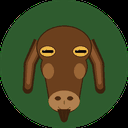
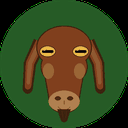
Fix the face on 64-colour MIP watches; label the data fields; full date
The older MIP watches (fenix 5/6, vivoactive 3/4, fr245/745/945, marq) declare
a fixed palette where every channel snaps to 00/55/AA/FF, and the colours had
been chosen without it in mind. Chocolate coats quantised to olive - and so did
the halter's leather, so on a Nubian the strap disappeared into the face. The
daylight sky came out indigo, meadow and dusk came out grey, slate came out
teal, and eight of sixteen breeds lost most of their shading.

Colours are now nudged the minimum distance needed to land on distinct palette
entries, biased to preserve the hue's channel ordering so a brown picks an
orange-brown rather than the numerically nearer grey. Imperceptible on AMOLED.

tools/check_palette.py asserts all of that, plus that the PIL mirror still
agrees with Breeds.mc colour for colour.

Also:
- data fields carry a dimmed caption (STEPS, HR, CAL, BATT, ..., KM/MILES)
- the date reads weekday, month and day, with a one-pixel halo so it stays
  legible where it crosses from a blaze onto the coat, and a narrow-panel
  fallback to weekday and day
- release.yml pinned to container tag 9.1.0; the 9.2.0 it referenced does not
  exist, so a tagged release would have failed on an unknown image

diff --git a/tools/goatart.py b/tools/goatart.py
@@ -30,18 +30,18 @@ HINGE = 0.34
 LEATHER = 0x46301E
 CREAM = 0xF3E7CC
 STITCH = 0xC9A96A
-MEADOW = 0x2E5B2E
-SLATE = 0x2A2F36
-DAYLIGHT = 0x2F6382
+MEADOW = 0x265B26
+SLATE = 0x2E3338
+DAYLIGHT = 0x1A5E9E
 
 BREEDS = [
-    dict(name="Nubian", coat=0x6B3F1D, coatDark=0x3C220E, coatLight=0x9A6636,
+    dict(name="Nubian", coat=0x803F1D, coatDark=0x3C220E, coatLight=0x9A6636,
          muzzle=0xB08050, muzzleDark=0x4A2C13, earInner=0x8F5A32, beardColor=0x3C220E,
          eye=0xE8B33C, horn=0xC9B58A, hornDark=0x8A7A5C,
          ear=EAR_DROOP, horns=HORN_NONE, beard=BEARD_SHORT, marking=MARK_NONE,
          markColor=0xF2EEE3, curly=False, faceInk=0xF5EFE0, faceDark=0x241F1B, wattles=False, muzzleLen=1.0, eyeScale=1.0),
-    dict(name="Alpine", coat=0x9A7245, coatDark=0x4E351A, coatLight=0xC5A175,
-         muzzle=0x2E2A26, muzzleDark=0x131110, earInner=0x6A4C2E, beardColor=0x1C1A18,
+    dict(name="Alpine", coat=0x9A722A, coatDark=0x4E2A1A, coatLight=0xC5A175,
+         muzzle=0x2A2A26, muzzleDark=0x131110, earInner=0x6A4C2E, beardColor=0x1C1A18,
          eye=0xE8B33C, horn=0xC9B58A, hornDark=0x8A7A5C,
          ear=EAR_UPRIGHT, horns=HORN_SWEPT, beard=BEARD_SHORT, marking=MARK_DARK_FACE,
          markColor=0xF2EEE3, curly=False, faceInk=0xF5EFE0, faceDark=0x241F1B, wattles=False, muzzleLen=1.0, eyeScale=1.0),
@@ -50,43 +50,43 @@ BREEDS = [
          eye=0xE8B33C, horn=0xC9B58A, hornDark=0x8A7A5C,
          ear=EAR_DROOP, horns=HORN_SWEPT, beard=BEARD_NONE, marking=MARK_BLAZE,
          markColor=0xF2EEE3, curly=False, faceInk=0x4A2A16, faceDark=0x241F1B, wattles=False, muzzleLen=1.0, eyeScale=1.0),
-    dict(name="Angora", coat=0xEFE6D0, coatDark=0xC2B497, coatLight=0xFFFAEE,
+    dict(name="Angora", coat=0xEFE6D0, coatDark=0xD5B47F, coatLight=0xFFFAEE,
          muzzle=0xE0B9A6, muzzleDark=0x8A6252, earInner=0xD8BFA8, beardColor=0xD8CBAF,
-         eye=0x8FA3B8, horn=0xD3C09A, hornDark=0x9A886A,
+         eye=0x7FA3D5, horn=0xD3C09A, hornDark=0x9A886A,
          ear=EAR_UPRIGHT, horns=HORN_SPIRAL, beard=BEARD_LONG, marking=MARK_NONE,
          markColor=0xF2EEE3, curly=True, faceInk=0x5A4A33, faceDark=0x241F1B, wattles=False, muzzleLen=1.0, eyeScale=1.0),
-    dict(name="Pygmy", coat=0x7B6D5D, coatDark=0x453C33, coatLight=0xA8967F,
+    dict(name="Pygmy", coat=0x806D5D, coatDark=0x453C33, coatLight=0xA8967F,
          muzzle=0x8E8070, muzzleDark=0x2A241E, earInner=0x5E5346, beardColor=0x35302A,
          eye=0xE8B33C, horn=0xC9B58A, hornDark=0x8A7A5C,
          ear=EAR_SIDE, horns=HORN_SPIKE, beard=BEARD_SHORT, marking=MARK_MASK,
          markColor=0x2A241E, curly=False, faceInk=0xF5EFE0, faceDark=0x241F1B, wattles=False, muzzleLen=0.92, eyeScale=1.12),
-    dict(name="LaMancha", coat=0x463227, coatDark=0x241813, coatLight=0x6E5040,
-         muzzle=0x7A5C48, muzzleDark=0x2A1C14, earInner=0x5A4034, beardColor=0x241813,
+    dict(name="LaMancha", coat=0x462A27, coatDark=0x241813, coatLight=0x6E5040,
+         muzzle=0x805C2A, muzzleDark=0x2A1C14, earInner=0x5A4034, beardColor=0x241813,
          eye=0xD9A441, horn=0xC9B58A, hornDark=0x8A7A5C,
          ear=EAR_ELF, horns=HORN_NONE, beard=BEARD_SHORT, marking=MARK_NONE,
          markColor=0xF2EEE3, curly=False, faceInk=0xF5EFE0, faceDark=0x241F1B, wattles=False, muzzleLen=1.0, eyeScale=1.0),
-    dict(name="Toggenburg", coat=0x8A6B45, coatDark=0x543D24, coatLight=0xB59468,
-         muzzle=0xF0E8D8, muzzleDark=0x6A5238, earInner=0xB08C60, beardColor=0x543D24,
+    dict(name="Toggenburg", coat=0x8A6B2A, coatDark=0x542A24, coatLight=0xB59468,
+         muzzle=0xF0E8D4, muzzleDark=0x6A5238, earInner=0xB08C60, beardColor=0x543D24,
          eye=0xE8B33C, horn=0xC9B58A, hornDark=0x8A7A5C,
          ear=EAR_UPRIGHT, horns=HORN_NONE, beard=BEARD_SHORT, marking=MARK_STRIPES,
          markColor=0xF2EEE3, curly=False, faceInk=0xF5EFE0, faceDark=0x241F1B, wattles=True, muzzleLen=1.0, eyeScale=1.0),
-    dict(name="Saanen", coat=0xF2EFE2, coatDark=0xC6C0AE, coatLight=0xFFFFF6,
+    dict(name="Saanen", coat=0xF2EFD4, coatDark=0xC6C0AE, coatLight=0xFFFFF6,
          muzzle=0xE9B2A4, muzzleDark=0x9A6A5E, earInner=0xE0C9BC, beardColor=0xDCD6C4,
-         eye=0x86B4D6, horn=0xC9B58A, hornDark=0x8A7A5C,
+         eye=0x7FB4D6, horn=0xC9B58A, hornDark=0x8A7A5C,
          ear=EAR_UPRIGHT, horns=HORN_NONE, beard=BEARD_SHORT, marking=MARK_NONE,
          markColor=0xF2EEE3, curly=False, faceInk=0x55503F, faceDark=0x241F1B, wattles=False, muzzleLen=1.0, eyeScale=1.0),
-    dict(name="Wild Ibex", coat=0xB08B57, coatDark=0x6A4F2E, coatLight=0xD8B884,
+    dict(name="Wild Ibex", coat=0xB08B57, coatDark=0x804F2A, coatLight=0xD8B884,
          muzzle=0xD8C9AC, muzzleDark=0x5A4530, earInner=0x8A6A42, beardColor=0x2E2118,
          eye=0xE8B33C, horn=0x8F7C58, hornDark=0x5A4C34,
          ear=EAR_SIDE, horns=HORN_IBEX, beard=BEARD_LONG, marking=MARK_MASK,
          markColor=0x4A3520, curly=False, faceInk=0xF5EFE0, faceDark=0x241F1B, wattles=False, muzzleLen=1.0, eyeScale=1.0),
-    dict(name="Black Bengal", coat=0x272727, coatDark=0x0D0D0D, coatLight=0x4E4E4E,
+    dict(name="Black Bengal", coat=0x272727, coatDark=0x0D0D2B, coatLight=0x4E4E4E,
          muzzle=0x3C3C3C, muzzleDark=0x0A0A0A, earInner=0x333333, beardColor=0x141414,
          eye=0xE8A93C, horn=0x8C8272, hornDark=0x5A5246,
          ear=EAR_UPRIGHT, horns=HORN_SPIKE, beard=BEARD_SHORT, marking=MARK_NONE,
          markColor=0xF2EEE3, curly=False, faceInk=0xF5EFE0, faceDark=0x241F1B, wattles=False, muzzleLen=1.0, eyeScale=1.0),
-    dict(name="Nigerian Dwarf", coat=0x4A3226, coatDark=0x241811, coatLight=0x7A5642,
-         muzzle=0xF0E6DA, muzzleDark=0x5A4034, earInner=0x8A6A56, beardColor=0x241811,
+    dict(name="Nigerian Dwarf", coat=0x803F1D, coatDark=0x2B1811, coatLight=0x7A5642,
+         muzzle=0xF0E6D4, muzzleDark=0x5A4034, earInner=0x8A6A56, beardColor=0x241811,
          eye=0x7FB6DC, horn=0xC0AE8E, hornDark=0x877A62,
          ear=EAR_UPRIGHT, horns=HORN_SPIKE, beard=BEARD_SHORT, marking=MARK_BLAZE,
          markColor=0xF4EEE6, curly=False, faceInk=0x40281C, faceDark=0x241F1B,
@@ -97,25 +97,25 @@ BREEDS = [
          ear=EAR_UPRIGHT, horns=HORN_SWEPT, beard=BEARD_SHORT, marking=MARK_DARK_FACE,
          markColor=0xC97B3E, curly=False, faceInk=0xF5EFE0, faceDark=0x1E1A18,
          wattles=False, muzzleLen=1.0, eyeScale=1.0),
-    dict(name="Valais Blacknose", coat=0xF4F0E6, coatDark=0xC9C3B4, coatLight=0xFFFFFA,
+    dict(name="Valais Blacknose", coat=0xF4F0E6, coatDark=0xD5D5B4, coatLight=0xFFFFFA,
          muzzle=0x1E1C1B, muzzleDark=0x080807, earInner=0x2A2624, beardColor=0xDED8C8,
          eye=0xE8B33C, horn=0xC6B492, hornDark=0x8E7F63,
          ear=EAR_UPRIGHT, horns=HORN_SPIRAL, beard=BEARD_SHORT, marking=MARK_DARK_FACE,
          markColor=0x1C1A19, curly=True, faceInk=0x3A3532, faceDark=0x1C1A19,
          wattles=False, muzzleLen=1.0, eyeScale=1.0),
     dict(name="Markhor", coat=0x9C8E76, coatDark=0x5E543F, coatLight=0xC3B79C,
-         muzzle=0xD2C8B2, muzzleDark=0x4A4234, earInner=0x7A6E58, beardColor=0x3A3226,
+         muzzle=0xD5D5B2, muzzleDark=0x4A4234, earInner=0x7A6E58, beardColor=0x3A3226,
          eye=0xE8B33C, horn=0x8A7F66, hornDark=0x574E3C,
          ear=EAR_SIDE, horns=HORN_SPIRAL, beard=BEARD_LONG, marking=MARK_STRIPES,
          markColor=0xE4DCC8, curly=False, faceInk=0xF5EFE0, faceDark=0x241F1B,
          wattles=False, muzzleLen=1.0, eyeScale=1.0),
-    dict(name="Golden Guernsey", coat=0xD69B45, coatDark=0x94631F, coatLight=0xF0C075,
+    dict(name="Golden Guernsey", coat=0xD69B45, coatDark=0x94632B, coatLight=0xF0C075,
          muzzle=0xE9C89A, muzzleDark=0x7A5424, earInner=0xC08A44, beardColor=0x94631F,
-         eye=0xC98A2E, horn=0xC9B58A, hornDark=0x8A7A5C,
+         eye=0xC97F2A, horn=0xC9B58A, hornDark=0x8A7A5C,
          ear=EAR_SIDE, horns=HORN_NONE, beard=BEARD_SHORT, marking=MARK_NONE,
          markColor=0xF2EEE3, curly=False, faceInk=0x4A3212, faceDark=0x241F1B,
          wattles=True, muzzleLen=1.0, eyeScale=1.0),
-    dict(name="Kiko", coat=0xE6DCC4, coatDark=0xB0A587, coatLight=0xF7F1E2,
+    dict(name="Kiko", coat=0xE6DCC4, coatDark=0xB0A57F, coatLight=0xF7F1E2,
          muzzle=0xD9BFA6, muzzleDark=0x7A6450, earInner=0xC9B294, beardColor=0xBFB396,
          eye=0xD8A441, horn=0xC9B58A, hornDark=0x8A7A5C,
          ear=EAR_SIDE, horns=HORN_IBEX, beard=BEARD_LONG, marking=MARK_NONE,
@@ -124,13 +124,32 @@ BREEDS = [
 ]
 
 
+# Set true to simulate the fixed 64-colour palette of the older MIP watches
+# (fenix 5/6, vivoactive 3/4, fr245/745/945, marq, ...): every channel snaps to
+# 0x00 / 0x55 / 0xAA / 0xFF. The device quantises each *fill colour*, not each
+# pixel, which is why this hooks the colour helpers rather than the output image.
+PALETTE64 = False
+_LEVELS = (0x00, 0x55, 0xAA, 0xFF)
+
+
+def _snap(v):
+    return min(_LEVELS, key=lambda L: abs(L - v))
+
+
+def quantize(rgb_tuple):
+    if not PALETTE64:
+        return rgb_tuple
+    return tuple(_snap(v) for v in rgb_tuple)
+
+
 def rgb(c):
-    return ((c >> 16) & 0xFF, (c >> 8) & 0xFF, c & 0xFF)
+    return quantize(((c >> 16) & 0xFF, (c >> 8) & 0xFF, c & 0xFF))
 
 
 def tint(c, factor):
-    r, g, b = rgb(c)
-    return (min(255, int(r * factor)), min(255, int(g * factor)), min(255, int(b * factor)))
+    r, g, b = (((c >> 16) & 0xFF), ((c >> 8) & 0xFF), (c & 0xFF))
+    return quantize((min(255, int(r * factor)), min(255, int(g * factor)),
+                     min(255, int(b * factor))))
 
 
 def fizz(n):

diff --git a/tools/check_palette.py b/tools/check_palette.py
@@ -1,0 +1,110 @@
+#!/usr/bin/env python
+"""
+Check the breed colours against the 64-colour MIP palette, and check that the
+PIL mirror still agrees with the Monkey C source.
+
+The older MIP watches (fenix 5/6, vivoactive 3/4, fr245/745/945, marq, ...)
+declare a fixed palette: every channel snaps to 0x00/0x55/0xAA/0xFF. Two colours
+landing on the same entry erase whatever shape they separated, so this asserts
+that the colours carrying the goat's structure - coat, muzzle, eye, and the rim
+where it can afford to - stay distinct after quantising, and that no coat
+collides with the halter's leather.
+
+Run:  python tools/check_palette.py
+"""
+import io
+import os
+import re
+import sys
+
+ROOT = os.path.dirname(os.path.dirname(os.path.abspath(__file__)))
+MC = os.path.join(ROOT, "source", "Breeds.mc")
+
+LEVELS = (0x00, 0x55, 0xAA, 0xFF)
+KEY = ["coat", "muzzle", "eye"]          # must always be mutually distinct
+RIM = "coatDark"                          # nice to have, may merge on dark goats
+LEATHER = 0x46301E
+
+COLOR_KEYS = ["coat", "coatDark", "coatLight", "muzzle", "muzzleDark",
+              "earInner", "beardColor", "eye", "horn", "hornDark", "faceDark",
+              "markColor", "faceInk"]
+
+
+def snap(c):
+    def n(v):
+        return min(LEVELS, key=lambda L: abs(L - v))
+    return (n((c >> 16) & 0xFF) << 16) | (n((c >> 8) & 0xFF) << 8) | n(c & 0xFF)
+
+
+def parse_mc():
+    s = io.open(MC, encoding="utf-8").read()
+    defaults = {}
+    for k in COLOR_KEYS:
+        m = re.search(r"var %s as Number = 0x([0-9A-Fa-f]{6});" % k, s)
+        if m:
+            defaults[k] = int(m.group(1), 16)
+    body = s[s.index("function get(index"):]
+    starts = [m.end() for m in re.finditer(
+        r"\n        (?:if \(i == \d+\) \{|\} else if \(i == \d+\) \{|\} else \{)", body)]
+    starts.append(body.index("        return b;"))
+    out = []
+    for i in range(len(starts) - 1):
+        seg = body[starts[i]:starts[i + 1]]
+        cols = dict(defaults)
+        for k in COLOR_KEYS:
+            m = re.search(r"b\.%s = 0x([0-9A-Fa-f]{6})" % k, seg)
+            if m:
+                cols[k] = int(m.group(1), 16)
+        name = re.search(r"// (.+?) -", seg)
+        cols["name"] = name.group(1).strip() if name else "breed %d" % i
+        out.append(cols)
+    return out
+
+
+def main():
+    sys.path.insert(0, os.path.join(ROOT, "tools"))
+    from goatart import BREEDS as MIRROR
+
+    mc = parse_mc()
+    problems = []
+
+    if len(mc) != len(MIRROR):
+        problems.append("breed count: Breeds.mc has %d, mirror has %d" % (len(mc), len(MIRROR)))
+
+    # 1. the mirror must agree with the source
+    for i in range(min(len(mc), len(MIRROR))):
+        for k in COLOR_KEYS:
+            if k in MIRROR[i] and k in mc[i] and MIRROR[i][k] != mc[i][k]:
+                problems.append("%-17s %-11s source 0x%06X != mirror 0x%06X"
+                                % (mc[i]["name"], k, mc[i][k], MIRROR[i][k]))
+
+    # 2. the palette must keep the structure
+    lea = snap(LEATHER)
+    print("%-18s %-9s %-9s %-9s %-9s" % ("breed", "coat", "muzzle", "eye", "rim"))
+    for b in mc:
+        q = {k: snap(b[k]) for k in KEY + [RIM]}
+        row = "  %-16s " % b["name"]
+        row += " ".join("%06X " % q[k] for k in KEY + [RIM])
+        notes = []
+        if len({q[k] for k in KEY}) < len(KEY):
+            notes.append("KEY COLLISION")
+            problems.append("%s: coat/muzzle/eye collide after quantise" % b["name"])
+        if q["coat"] == lea:
+            notes.append("COAT == STRAP")
+            problems.append("%s: coat quantises to the halter's leather" % b["name"])
+        if q[RIM] == q["coat"]:
+            notes.append("(rim merges - ok on a dark goat)")
+        print(row + "  " + " ".join(notes))
+
+    print()
+    if problems:
+        print("%d problem(s):" % len(problems))
+        for p in problems:
+            print("  - %s" % p)
+        return 1
+    print("OK: mirror matches source, and every breed survives the 64-colour palette.")
+    return 0
+
+
+if __name__ == "__main__":
+    sys.exit(main())

diff --git a/README.md b/README.md
@@ -93,6 +93,24 @@ taking it modulo a small number walks a short repeating cycle that can miss
 residues entirely; the first version of this face never blinked at all because
 of it.
 
+### Colour on MIP watches
+
+Half the supported devices are memory-in-pixel, and the older ones declare a
+fixed **64-colour palette**: every channel snaps to `00`/`55`/`AA`/`FF`. There
+is no true chocolate in that palette, so a brown goat will always come out
+orange-brown or maroon — but what matters is that colours which carry *shape*
+stay distinct after quantising. A coat and the halter's leather landing on the
+same entry makes the strap vanish into the face, which is exactly what the first
+version did.
+
+![on a 64-colour MIP panel](assets/preview_mip.png)
+
+`tools/check_palette.py` asserts this and fails loudly if a change breaks it:
+
+```
+python tools/check_palette.py
+```
+
 ### Tools
 
 `tools/goatart.py` is a line-for-line PIL mirror of the Monkey C artist — same
@@ -100,10 +118,15 @@ fraction constants, same palette, same draw order. **If you change one, change
 the other.** It pays for itself three times over:
 
 ```
-python tools/preview.py     # assets/preview_breeds.png + preview_anim.png
-python tools/gen_icons.py   # launcher icons at every panel family's size
-python tools/gen_assets.py  # store icon / cover / hero art
+python tools/preview.py       # assets/preview_breeds.png + preview_anim.png
+python tools/gen_icons.py     # launcher icons at every panel family's size
+python tools/gen_assets.py    # store icon / cover / hero art
+python tools/check_palette.py # 64-colour MIP safety + mirror/source agreement
 ```
+
+Set `goatart.PALETTE64 = True` to render any preview the way a 64-colour MIP
+watch would show it — it hooks the colour helpers rather than the output image,
+because the device quantises each *fill colour*, not each pixel.
 
 `preview.py` renders all sixteen goats, and twelve consecutive seconds of one goat
 across a yawn,

diff --git a/CHANGELOG.md b/CHANGELOG.md
@@ -4,6 +4,38 @@ All notable changes to Goat Face are documented here. The format is based on
 [Keep a Changelog](https://keepachangelog.com/en/1.1.0/), and this project aims to
 follow [Semantic Versioning](https://semver.org/spec/v2.0.0.html).
 
+## [1.1.1] - 2026-07-31
+
+### Added
+- Data fields are **labelled** - a dimmed caption above each value (STEPS, HR,
+  CAL, BATT, BODY, ALERTS, ACTIVE, and KM/MILES following your unit setting).
+- The date now reads **weekday, month and day**, falling back to weekday and
+  day on panels too narrow to fit it.
+- `tools/check_palette.py`, which asserts the breed colours survive the
+  64-colour MIP palette and that the PIL mirror still matches the Monkey C
+  source.
+
+### Fixed
+- **The face was badly wrong on 64-colour MIP watches** (fenix 5/6,
+  vivoactive 3/4, fr245/745/945, marq and friends). Those panels declare a
+  fixed palette where every channel snaps to 0x00/0x55/0xAA/0xFF, and the
+  colours had been picked without it in mind:
+  - chocolate coats quantised to **olive**, and so did the halter's leather -
+    so on a Nubian the strap disappeared into the face
+  - the daylight sky quantised to **indigo**, the meadow and dusk backdrops to
+    **grey**, and slate to **teal**
+  - eight of sixteen breeds lost most of their shading, Black Bengal collapsing
+    from eight distinct colours to three
+
+  Colours are now chosen so they land on sensible, distinct palette entries -
+  nudged the minimum distance needed, and biased to keep the hue's channel
+  ordering so a brown picks an orange-brown rather than the numerically nearer
+  grey. On a 16-bit AMOLED panel the change is imperceptible.
+- The date is drawn with a one-pixel halo, so it stays legible where it crosses
+  from a blaze onto the coat.
+- The release workflow referenced a container image tag (`9.2.0`) that does not
+  exist; pinned to `9.1.0`, the newest published.
+
 ## [1.1.0] - 2026-07-31
 
 ### Added
